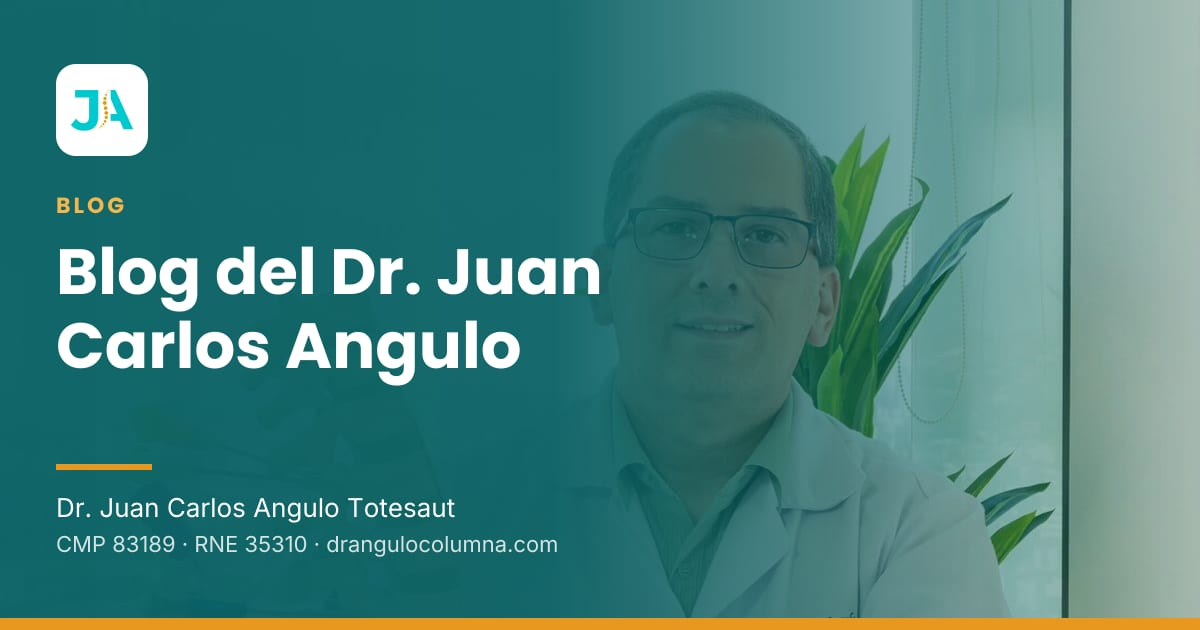
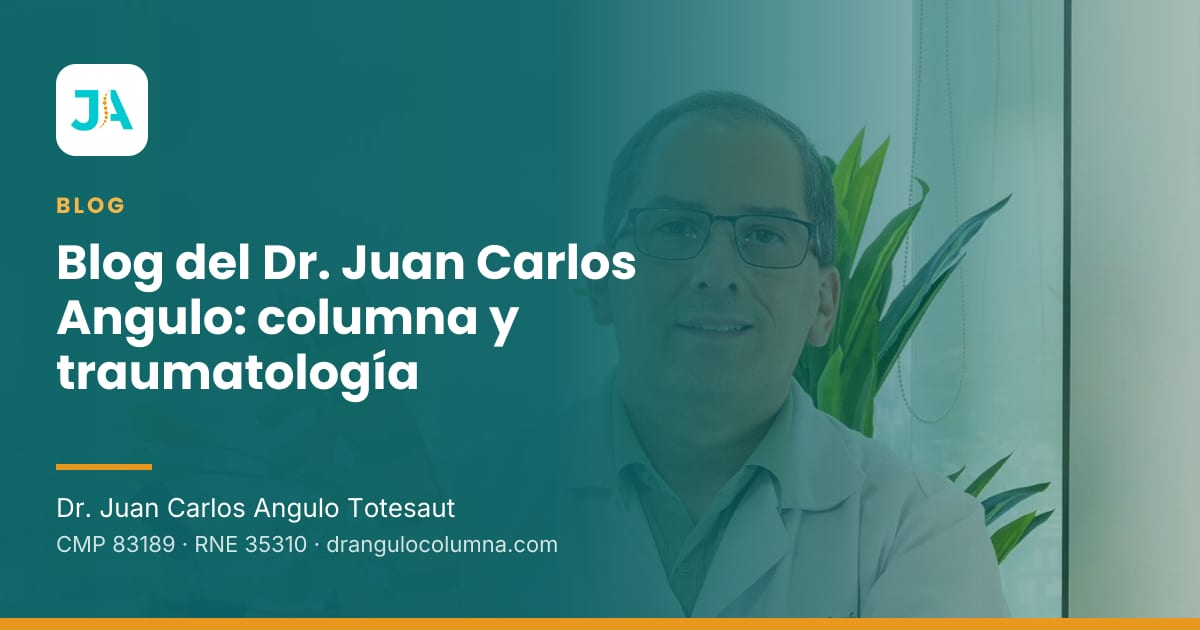
SEO: title con "traumatólogo", metas más completas y nodos de página en el schema
- Home: title "Traumatólogo y cirujano de columna en Lima | Dr. Angulo", que usa el
  término exacto que posicionan los primeros resultados de la SERP de Lima.
- Titles y descripciones de /blog, /agendar, /testimonios, /contacto y
  /sobre-el-doctor ampliados dentro de los límites de la puerta (60 y 155).
- Schema: WebPage en la portada, /testimonios y /preguntas-frecuentes, y
  CollectionPage en /sedes. Se agrega Pediatric a las especialidades.
- Se quita x-powered-by y /favicon.ico redirige a /icon.png.
- Tarjetas de Open Graph regeneradas con `npm run og:build`.

Changed region(s): [[0.0308, 0.3921, 0.555, 0.6333]]

diff --git a/src/app/testimonios/page.tsx b/src/app/testimonios/page.tsx
@@ -4,18 +4,18 @@ import { ArrowRight } from "lucide-react";
 import { InstagramReelsSection } from "@/components/instagram/instagram-reels-section";
 import { BookingCta } from "@/components/ui/booking-cta";
 import { testimonials, reviewLinks } from "@/content/testimonials";
-import { BreadcrumbJsonLd } from "@/components/structured-data";
+import { BreadcrumbJsonLd, WebPageJsonLd } from "@/components/structured-data";
 import { GoogleReviewsSection } from "@/components/reviews/google-reviews";
 
 export const metadata: Metadata = {
-  title: { absolute: "Testimonios de pacientes del Dr. Angulo" },
+  title: { absolute: "Testimonios de pacientes del Dr. Angulo en Lima" },
   description:
-    "Lo que cuentan, en sus propias palabras, los pacientes que se atendieron con el Dr. Juan Carlos Angulo en Lima.",
+    "Lo que cuentan, en sus propias palabras, los pacientes que se atendieron con el Dr. Juan Carlos Angulo, traumatólogo y cirujano de columna en Lima.",
   alternates: { canonical: "/testimonios" },
   openGraph: {
-    title: "Testimonios de pacientes del Dr. Angulo",
+    title: "Testimonios de pacientes del Dr. Angulo en Lima",
     description:
-      "Lo que cuentan, en sus propias palabras, los pacientes que se atendieron con el Dr. Juan Carlos Angulo en Lima.",
+      "Lo que cuentan, en sus propias palabras, los pacientes que se atendieron con el Dr. Juan Carlos Angulo, traumatólogo y cirujano de columna en Lima.",
     url: "/testimonios",
   },
 };
@@ -27,6 +27,10 @@ export default async function TestimoniosPage() {
   return (
     <>
       <BreadcrumbJsonLd items={[{ name: "Testimonios", path: "/testimonios" }]} />
+      <WebPageJsonLd
+        path="/testimonios"
+        name="Testimonios de pacientes del Dr. Angulo en Lima"
+      />
     <div className="mx-auto max-w-3xl px-4 py-14 sm:px-6 sm:py-20">
       <h1 className="font-heading text-3xl font-extrabold text-primary sm:text-4xl">
         Lo que dicen sus pacientes

diff --git a/src/components/structured-data.tsx b/src/components/structured-data.tsx
@@ -51,6 +51,8 @@ function abs(path: string) {
 const MEDICAL_SPECIALTIES = [
   "https://schema.org/Musculoskeletal",
   "https://schema.org/Surgical",
+  // La consulta incluye ortopedia infantil, que `knowsAbout` ya declara.
+  "https://schema.org/Pediatric",
 ];
 
 /**
@@ -487,6 +489,38 @@ export function SedeJsonLd({
   };
 
   return <JsonLdScript id="sede-jsonld" data={data} />;
+}
+
+/**
+ * Nodo de página para las rutas que solo llevaban `BreadcrumbList`: la portada,
+ * `/sedes`, `/testimonios` y `/preguntas-frecuentes`. Sin él, el buscador tiene
+ * la miga de pan pero ningún `WebPage` al que atar la entidad del doctor.
+ *
+ * `/sedes` es un listado, así que usa `CollectionPage`; el resto, `WebPage`.
+ * No lleva `Review` ni `AggregateRating`: las reseñas de esta web son de
+ * terceros y marcarlas en el propio sitio no es elegible.
+ */
+export function WebPageJsonLd({
+  path,
+  name,
+  type = "WebPage",
+}: {
+  path: string;
+  name: string;
+  type?: "WebPage" | "CollectionPage";
+}) {
+  const data = {
+    "@context": "https://schema.org",
+    "@type": type,
+    "@id": abs(`${path === "/" ? "" : path}#page`),
+    url: abs(path),
+    name,
+    inLanguage: "es-PE",
+    isPartOf: { "@id": ID.website },
+    about: { "@id": ID.physician },
+  };
+
+  return <JsonLdScript id="pagina-jsonld" data={data} />;
 }
 
 /** Página de contacto. */

diff --git a/src/app/page.tsx b/src/app/page.tsx
@@ -17,9 +17,10 @@ import { faqItems } from "@/content/faq";
 import { reviewLinks } from "@/content/testimonials";
 import { siteConfig } from "@/lib/site-config";
 import { GoogleReviewsSection } from "@/components/reviews/google-reviews";
+import { WebPageJsonLd } from "@/components/structured-data";
 
 export const metadata: Metadata = {
-  title: { absolute: "Traumatología en Lima: Dr. Juan Carlos Angulo" },
+  title: { absolute: "Traumatólogo y cirujano de columna en Lima | Dr. Angulo" },
   description:
     "Traumatólogo y cirujano de columna en Lima. Atiende en su consultorio de Surco, Ricardo Palma, Sanna La Molina y Clínica Tezza.",
   alternates: { canonical: "/" },
@@ -31,6 +32,7 @@ export const revalidate = 3600;
 export default async function Home() {
   return (
     <>
+      <WebPageJsonLd path="/" name="Traumatólogo y cirujano de columna en Lima" />
       <section className="relative overflow-hidden bg-primary">
         <div
           aria-hidden="true"

diff --git a/src/app/sobre-el-doctor/page.tsx b/src/app/sobre-el-doctor/page.tsx
@@ -10,12 +10,12 @@ import { BreadcrumbJsonLd, ProfilePageJsonLd } from "@/components/structured-dat
 export const metadata: Metadata = {
   title: { absolute: "Sobre el Dr. Juan Carlos Angulo Totesaut" },
   description:
-    "Formación, forma de trabajo y sedes donde atiende el Dr. Juan Carlos Angulo Totesaut, médico de columna en Lima.",
+    "Formación, forma de trabajo y sedes donde atiende el Dr. Juan Carlos Angulo Totesaut, traumatólogo y cirujano de columna en Lima. CMP 83189.",
   alternates: { canonical: "/sobre-el-doctor" },
   openGraph: {
     title: "Sobre el Dr. Juan Carlos Angulo Totesaut",
     description:
-      "Formación, forma de trabajo y sedes donde atiende el Dr. Juan Carlos Angulo Totesaut, médico de columna en Lima.",
+      "Formación, forma de trabajo y sedes donde atiende el Dr. Juan Carlos Angulo Totesaut, traumatólogo y cirujano de columna en Lima. CMP 83189.",
     url: "/sobre-el-doctor",
   },
 };

diff --git a/src/app/sedes/page.tsx b/src/app/sedes/page.tsx
@@ -3,7 +3,7 @@ import Link from "next/link";
 import { BookingCta } from "@/components/ui/booking-cta";
 import { SedeCard } from "@/components/locations/sede-card";
 import { getLocationPage, locationPages } from "@/content/location-pages";
-import { BreadcrumbJsonLd } from "@/components/structured-data";
+import { BreadcrumbJsonLd, WebPageJsonLd } from "@/components/structured-data";
 import {
   ContentBody,
   ContentBodyBoundary,
@@ -32,6 +32,11 @@ export default function SedesPage() {
   return (
     <>
       <BreadcrumbJsonLd items={[{ name: "Sedes", path: "/sedes" }]} />
+      <WebPageJsonLd
+        path="/sedes"
+        name="Sedes donde atiende el Dr. Angulo en Lima"
+        type="CollectionPage"
+      />
       <div className="mx-auto max-w-4xl px-4 py-14 sm:px-6 sm:py-20">
         <h1 className="font-heading text-3xl font-extrabold text-primary sm:text-4xl">
           Sedes donde atiende el Dr. Angulo en Lima

diff --git a/src/app/contacto/page.tsx b/src/app/contacto/page.tsx
@@ -9,12 +9,12 @@ import { BreadcrumbJsonLd, ContactPageJsonLd } from "@/components/structured-dat
 export const metadata: Metadata = {
   title: { absolute: "Contacto con el consultorio del Dr. Angulo" },
   description:
-    "Cuéntale tu caso al doctor por el formulario o escribe por WhatsApp. Datos de contacto del consultorio en Lima.",
+    "Cuéntale tu caso al doctor por el formulario o escribe por WhatsApp. Dirección, teléfono y sedes del consultorio del Dr. Angulo en Lima.",
   alternates: { canonical: "/contacto" },
   openGraph: {
     title: "Contacto con el consultorio del Dr. Angulo",
     description:
-      "Cuéntale tu caso al doctor por el formulario o escribe por WhatsApp. Datos de contacto del consultorio en Lima.",
+      "Cuéntale tu caso al doctor por el formulario o escribe por WhatsApp. Dirección, teléfono y sedes del consultorio del Dr. Angulo en Lima.",
     url: "/contacto",
   },
 };

diff --git a/next.config.ts b/next.config.ts
@@ -27,6 +27,8 @@ const CSP_REPORT_ONLY = [
 ].join("; ");
 
 const nextConfig: NextConfig = {
+  // Sin `x-powered-by: Next.js`: no aporta nada al visitante y anuncia el stack.
+  poweredByHeader: false,
   images: {
     // Portadas de los reels: Instagram las sirve desde su CDN con URLs firmadas
     // que caducan, por eso el feed se revalida cada hora.
@@ -108,6 +110,9 @@ const nextConfig: NextConfig = {
   },
   async redirects() {
     return [
+      // Algunos clientes piden `/favicon.ico` por defecto aunque el HTML declare
+      // `/icon.png`; sin esto cada pedido deja un 404 en los registros.
+      { source: "/favicon.ico", destination: "/icon.png", permanent: false },
       // Renombre decidido en la fase 14 de v1.2: la guía pasó de /servicios/escoliosis
       // a /servicios/escoliosis-y-deformidades y la URL vieja ya estaba indexada.
       {

diff --git a/src/app/preguntas-frecuentes/page.tsx b/src/app/preguntas-frecuentes/page.tsx
@@ -12,7 +12,11 @@ import {
   ContentBodyBoundary,
   groupSections,
 } from "@/components/content/content-body";
-import { BreadcrumbJsonLd, FaqJsonLd } from "@/components/structured-data";
+import {
+  BreadcrumbJsonLd,
+  FaqJsonLd,
+  WebPageJsonLd,
+} from "@/components/structured-data";
 import { faqItems } from "@/content/faq";
 import { preguntasFrecuentesPage as page } from "@/content/static-pages/preguntas-frecuentes";
 
@@ -50,6 +54,10 @@ export default function PreguntasFrecuentesPage() {
     <>
       <BreadcrumbJsonLd
         items={[{ name: "Preguntas frecuentes", path: "/preguntas-frecuentes" }]}
+      />
+      <WebPageJsonLd
+        path="/preguntas-frecuentes"
+        name="Preguntas frecuentes sobre la consulta del Dr. Angulo"
       />
       <FaqJsonLd
         items={[...packageFaqItems, ...faqItems]}

diff --git a/src/app/agendar/page.tsx b/src/app/agendar/page.tsx
@@ -8,12 +8,12 @@ import { siteConfig } from "@/lib/site-config";
 import { BreadcrumbJsonLd, BookingPageJsonLd } from "@/components/structured-data";
 
 export const metadata: Metadata = {
-  title: { absolute: "Agendar una cita con el Dr. Angulo" },
+  title: { absolute: "Agendar una cita con el Dr. Angulo en Lima" },
   description:
     "Cómo pedir cita en cada sede: WhatsApp para el consultorio de Surco y la central de citas de Ricardo Palma, Sanna y Tezza.",
   alternates: { canonical: "/agendar" },
   openGraph: {
-    title: "Agendar una cita con el Dr. Angulo",
+    title: "Agendar una cita con el Dr. Angulo en Lima",
     description:
       "Cómo pedir cita en cada sede: WhatsApp para el consultorio de Surco y la central de citas de Ricardo Palma, Sanna y Tezza.",
     url: "/agendar",

diff --git a/src/app/blog/page.tsx b/src/app/blog/page.tsx
@@ -9,12 +9,12 @@ import {
 import { hubBlog } from "@/content/static-pages/hub-blog";
 
 export const metadata: Metadata = {
-  title: { absolute: "Blog del Dr. Juan Carlos Angulo" },
+  title: { absolute: "Blog del Dr. Juan Carlos Angulo: columna y traumatología" },
   description:
     "Artículos sobre dolor de espalda, salud de la columna y qué esperar de una consulta, escritos por el Dr. Juan Carlos Angulo.",
   alternates: { canonical: "/blog" },
   openGraph: {
-    title: "Blog del Dr. Juan Carlos Angulo",
+    title: "Blog del Dr. Juan Carlos Angulo: columna y traumatología",
     description:
       "Artículos sobre dolor de espalda, salud de la columna y qué esperar de una consulta, escritos por el Dr. Juan Carlos Angulo.",
     url: "/blog",
